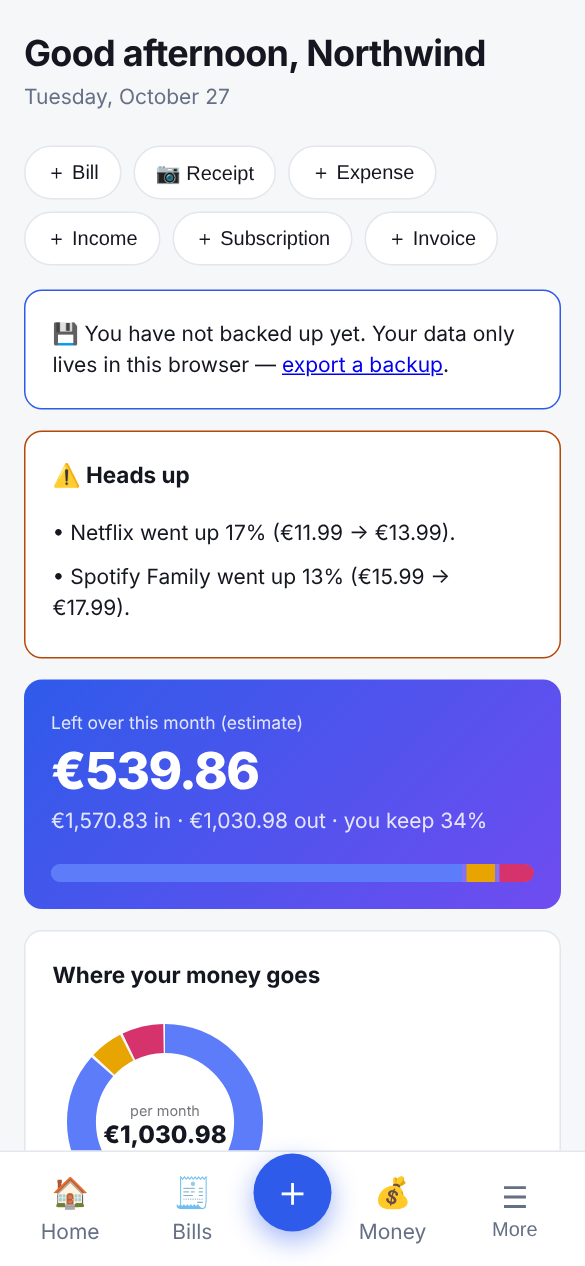
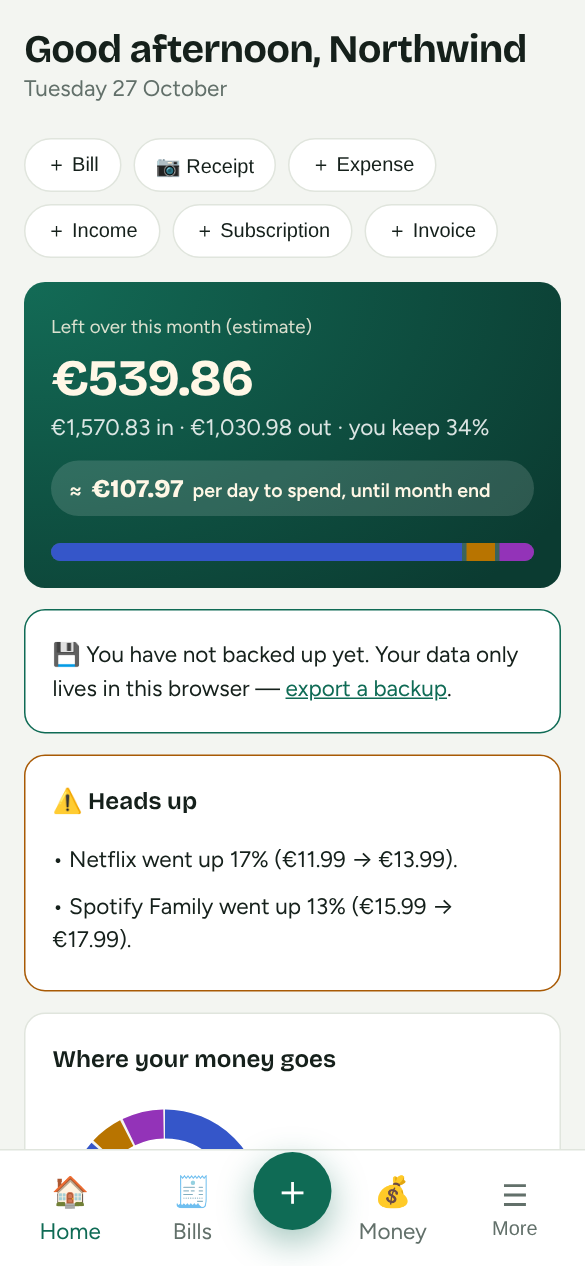
New visual identity (ledger green, Bricolage), safe-to-spend per day, global search, validated chart colours

diff --git a/js/app.js b/js/app.js
@@ -134,7 +134,7 @@
   function donut(parts, centerTop, centerBottom) {
     var tot = parts.reduce(function (a, p) { return a + p.v; }, 0) || 1, R = 52, C = 2 * Math.PI * R, off = 0;
     return '<svg viewBox="0 0 140 140" class="donut" role="img" aria-label="Spending split"><circle cx="70" cy="70" r="' + R + '" fill="none" stroke="var(--bg)" stroke-width="18"/>' + parts.map(function (p) {
-      var len = p.v / tot * C, el = '<circle cx="70" cy="70" r="' + R + '" fill="none" stroke="' + p.c + '" stroke-width="18" stroke-dasharray="' + Math.max(len - 1.5, 0) + ' ' + C + '" stroke-dashoffset="' + (-off) + '" transform="rotate(-90 70 70)"><title>' + esc(p.l) + ': ' + money(p.v) + '</title></circle>'; off += len; return el;
+      var len = p.v / tot * C, el = '<circle cx="70" cy="70" r="' + R + '" fill="none" style="stroke:' + p.c + '" stroke-width="18" stroke-dasharray="' + Math.max(len - 1.5, 0) + ' ' + C + '" stroke-dashoffset="' + (-off) + '" transform="rotate(-90 70 70)"><title>' + esc(p.l) + ': ' + money(p.v) + '</title></circle>'; off += len; return el;
     }).join('') + '<text x="70" y="66" text-anchor="middle" font-size="9" fill="currentColor" opacity=".6">' + esc(centerTop) + '</text><text x="70" y="83" text-anchor="middle" font-size="15" font-weight="800" fill="currentColor">' + esc(centerBottom) + '</text></svg>';
   }
   function monthFlows(n) {
@@ -155,6 +155,21 @@
       '<button class="pick" data-mode="both"><b>✨ Both</b><span>Everything in one place</span></button></div>' +
       '<p style="margin:14px 0 0"><button class="btn" id="wdemo">Look around with demo data first</button></p></div>';
   }
+  function daysLeft() { var n = new Date(); return Math.max(1, new Date(n.getFullYear(), n.getMonth() + 1, 0).getDate() - n.getDate() + 1); }
+  var SEARCH = { bills: ['#/bills', 'Utilities'], subs: ['#/subs', 'Subscriptions'], expenses: ['#/expenses', 'Expenses'], invoices: ['#/invoice/', 'Invoices'], clients: ['#/clients', 'Clients'], income: ['#/income', 'Income'], loans: ['#/loans', 'Loans'], items: ['#/reminders', 'Warranties'], deadlines: ['#/reminders', 'Deadlines'], accounts: ['#/wealth', 'Accounts'], goals: ['#/wealth', 'Goals'], groups: ['#/split', 'Split expenses'] };
+  function searchSheet() {
+    dlg.innerHTML = '<form method="dialog"><input class="sbox" id="sq" placeholder="Search bills, subscriptions, invoices, clients…" autocomplete="off"><div id="sres" style="margin-top:10px;max-height:50vh;overflow:auto"></div><div class="row" style="justify-content:flex-end;margin-top:12px"><button class="btn" value="x">Close</button></div></form>';
+    dlg.onclose = null; dlg.showModal(); var q = $('#sq'), res = $('#sres');
+    function title(x) { return x.name || x.source || x.desc || x.description || x.vendor || x.provider || x.number || x.title || x.note || x.type || '—'; }
+    q.oninput = function () {
+      var t = q.value.trim().toLowerCase(); if (t.length < 2) { res.innerHTML = '<p class="mut">Type at least two letters.</p>'; return; }
+      var out = []; Object.keys(SEARCH).forEach(function (c) { (db[c] || []).forEach(function (x) { var hay = JSON.stringify(x).toLowerCase(); if (hay.indexOf(t) > -1) out.push({ c: c, x: x }); }); });
+      res.innerHTML = out.length ? out.slice(0, 30).map(function (r) { var S = SEARCH[r.c], href = S[0] + (r.c === 'invoices' ? r.x.id : ''), amt = r.x.amount != null ? money(r.x.amount) : (r.x.balance != null ? money(r.x.balance) : ''); return '<a class="srow" href="' + href + '"><b>' + esc(String(title(r.x))) + '</b><span class="mut">' + S[1] + (r.x.date ? ' · ' + fdate(r.x.date) : '') + '</span><small>' + amt + '</small></a>'; }).join('') : '<p class="mut">Nothing found.</p>';
+      res.querySelectorAll('a').forEach(function (a) { a.onclick = function () { dlg.close('x'); }; });
+    };
+    q.focus();
+  }
+  document.addEventListener('keydown', function (e) { if ((e.ctrlKey || e.metaKey) && e.key.toLowerCase() === 'k') { e.preventDefault(); searchSheet(); } });
   function greeting() { var h = new Date().getHours(); return h < 6 ? 'Good night' : h < 12 ? 'Good morning' : h < 20 ? 'Good afternoon' : 'Good evening'; }
   function quickChips() {
     return '<div class="chips"><button class="chip" data-q="bill">＋ Bill</button><button class="chip" data-q="scan">📷 Receipt</button><button class="chip" data-q="expense">＋ Expense</button><button class="chip" data-q="income">＋ Income</button><button class="chip" data-q="sub">＋ Subscription</button><button class="chip" data-q="invoice">＋ Invoice</button></div>';
@@ -164,17 +179,18 @@
     var mode = db.settings.mode || 'both';
     var html = '<div class="top"><div><h1>' + greeting() + (db.settings.name ? ', ' + esc(db.settings.name.split(' ')[0]) : '') + '</h1><div class="mut">' + new Date().toLocaleDateString(LOCALE, { weekday: 'long', day: 'numeric', month: 'long' }) + '</div></div></div>';
     if (empty) { view.innerHTML = html + welcomeHtml(); wireWelcome(); return; }
-    html += quickChips() + backupBanner() + alertsHtml(alerts());
+    html += quickChips(); var warn = backupBanner() + alertsHtml(alerts());
     var o = overviewData();
     if (db.income.length || db.loans.length || db.subs.length || db.bills.length) {
-      var parts = [{ l: 'Loans', v: o.ln, c: '#5c7cfa' }, { l: 'Home bills', v: o.bl, c: '#e8a400' }, { l: 'Subscriptions', v: o.sb, c: '#d6336c' }, { l: 'Other expenses', v: o.ex, c: '#16a394' }].filter(function (p) { return p.v > 0.5; });
+      var parts = [{ l: 'Loans', v: o.ln, c: 'var(--c1)' }, { l: 'Home bills', v: o.bl, c: 'var(--c2)' }, { l: 'Subscriptions', v: o.sb, c: 'var(--c3)' }, { l: 'Other expenses', v: o.ex, c: 'var(--c4)' }].filter(function (p) { return p.v > 0.5; });
       var flows = monthFlows(6), fmax = Math.max.apply(null, flows.map(function (f) { return Math.max(f.inc, f.out); }).concat([1]));
       html += '<div class="hero card"><div><small>' + (db.income.length ? 'Left over this month (estimate)' : 'Monthly costs (estimate)') + '</small><div class="big ' + (o.left < 0 && db.income.length ? 'neg' : '') + '">' + money(db.income.length ? o.left : o.out) + '</div>' +
-        (db.income.length ? '<div class="mut">' + money(o.inc) + ' in · ' + money(o.out) + ' out · you keep ' + (o.inc ? Math.round(Math.max(0, o.left) / o.inc * 100) : 0) + '%' + '</div>' : '<div class="mut">Add your <a href="#/income">income</a> to see what is left each month.</div>') + '</div>' +
+        (db.income.length ? '<div class="mut">' + money(o.inc) + ' in · ' + money(o.out) + ' out · you keep ' + (o.inc ? Math.round(Math.max(0, o.left) / o.inc * 100) : 0) + '%' + '</div>' + (o.left > 0 ? '<div class="perday"><span>≈</span><b>' + money(o.left / daysLeft()) + '</b><span>per day to spend, until month end</span></div>' : '') : '<div class="mut">Add your <a href="#/income">income</a> to see what is left each month.</div>') + '</div>' +
         '<div class="stack" role="img" aria-label="Where this month goes">' + parts.map(function (p) { return '<i style="flex:' + p.v + ';background:' + p.c + '" title="' + esc(p.l) + ' ' + money(p.v) + '"></i>'; }).join('') + '</div></div>';
-      html += '<div class="grid g2" style="margin-top:14px"><div class="card"><h2>Where your money goes</h2><div class="dn">' + donut(parts, 'per month', money(o.out)) + '<div class="lg">' + parts.map(function (p) { return '<div><i style="background:' + p.c + '"></i><span>' + esc(p.l) + '</span><b>' + money(p.v) + '</b><em>' + Math.round(p.v / (o.out || 1) * 100) + '%</em></div>'; }).join('') + '</div></div></div>' +
-        '<div class="card"><h2>Last 6 months</h2><div class="bar" style="height:150px">' + flows.map(function (f) { return '<div><span class="bars"><i style="height:' + f.inc / fmax * 100 + '%" title="In ' + money(f.inc) + '"></i><i class="e" style="height:' + f.out / fmax * 100 + '%;background:#e8590c" title="Out ' + money(f.out) + '"></i></span>' + f.label + '</div>'; }).join('') + '</div><div class="legend"><span><i style="background:var(--acc)"></i>Money in</span><span><i style="background:#e8590c"></i>Money out</span></div></div></div>';
+      html += '<div style="margin-top:14px">' + warn + '</div>'; warn = ''; html += '<div class="grid g2" style="margin-top:14px"><div class="card"><h2>Where your money goes</h2><div class="dn">' + donut(parts, 'per month', money(o.out)) + '<div class="lg">' + parts.map(function (p) { return '<div><i style="background:' + p.c + '"></i><span>' + esc(p.l) + '</span><b>' + money(p.v) + '</b><em>' + Math.round(p.v / (o.out || 1) * 100) + '%</em></div>'; }).join('') + '</div></div></div>' +
+        '<div class="card"><h2>Last 6 months</h2><div class="bar" style="height:150px">' + flows.map(function (f) { return '<div><span class="bars"><i style="height:' + f.inc / fmax * 100 + '%" title="In ' + money(f.inc) + '"></i><i class="e" style="height:' + f.out / fmax * 100 + '%;background:var(--c2)" title="Out ' + money(f.out) + '"></i></span>' + f.label + '</div>'; }).join('') + '</div><div class="legend"><span><i style="background:var(--c4)"></i>Money in</span><span><i style="background:var(--c2)"></i>Money out</span></div></div></div>';
     }
+    html += warn;
     var nw = db.accounts.length ? netWorth() : null;
     var small = [];
     if (nw != null) small.push(kpi('Net worth', money(nw), nw >= 0 ? 'ok' : 'bad'));
@@ -199,7 +215,7 @@
     else if (k === 'loan') loanForm(); else if (k === 'goal') { go('#/wealth', '#newg'); } else if (k === 'account') { go('#/wealth', '#newa'); }
   }
   function moreSheet() {
-    var items = Array.prototype.map.call(document.querySelectorAll('#nav a'), function (a) { return '<a href="' + a.getAttribute('href') + '" class="mrow">' + a.innerHTML + '</a>'; }).join('');
+    var items = '<button type="button" class="mrow" data-act="search" style="text-align:left;background:none;font:inherit;grid-column:1/-1">🔍 Search</button>' + Array.prototype.map.call(document.querySelectorAll('#nav a'), function (a) { return '<a href="' + a.getAttribute('href') + '" class="mrow">' + a.innerHTML + '</a>'; }).join('');
     dlg.innerHTML = '<form method="dialog"><h2>All sections</h2><div class="mgrid">' + items + '</div>' + (window.__installEvt || isIOS() ? '<p style="margin-top:14px"><button type="button" class="btn p" id="inst" style="width:100%">📲 Install the app on this phone</button></p>' : '') + '<p style="margin-top:10px"><button type="button" class="btn" data-act="lang" style="width:100%">🌐 ' + (LOCALE ? 'English' : 'Português') + '</button></p><div class="row" style="justify-content:flex-end;margin-top:12px"><button class="btn" value="x">Close</button></div></form>';
     dlg.onclose = null; dlg.showModal(); dlg.querySelectorAll('a.mrow').forEach(function (a) { a.onclick = function () { dlg.close('x'); }; });
     var i = dlg.querySelector('#inst'); if (i) i.onclick = installApp;
@@ -217,7 +233,7 @@
   window.addEventListener('beforeinstallprompt', function (e) { e.preventDefault(); window.__installEvt = e; var b = $('#installbtn'); if (b) b.hidden = false; });
   document.addEventListener('click', function (e) {
     var t = e.target.closest('[data-act]'); if (!t) return; var a = t.dataset.act;
-    if (a === 'lang') { try { localStorage.setItem('ledgerly.lang', localStorage.getItem('ledgerly.lang') === 'pt' ? 'en' : 'pt'); } catch (e) { } location.reload(); } else if (a === 'quick') quickSheet(); else if (a === 'more') moreSheet(); else if (a === 'install') installApp();
+    if (a === 'search') searchSheet(); else if (a === 'lang') { try { localStorage.setItem('ledgerly.lang', localStorage.getItem('ledgerly.lang') === 'pt' ? 'en' : 'pt'); } catch (e) { } location.reload(); } else if (a === 'quick') quickSheet(); else if (a === 'more') moreSheet(); else if (a === 'install') installApp();
   });
 
   function invTable(list) {

diff --git a/style.css b/style.css
@@ -1,7 +1,9 @@
-:root{--bg:#f6f7f9;--card:#fff;--line:#e3e6ec;--text:#14171f;--mut:#667085;--acc:#2f5bea;--acc2:#e8eefe;--ok:#12805c;--okb:#e1f6ee;--warn:#b54708;--warnb:#fff1e0;--bad:#c0262d;--badb:#fde8e9;--r:12px}
-@media (prefers-color-scheme:dark){:root{--bg:#0e1015;--card:#171a22;--line:#262b36;--text:#eceef3;--mut:#8f98a8;--acc:#6f8cff;--acc2:#1c2442;--ok:#4cd6a2;--okb:#12312a;--warn:#ffb067;--warnb:#3a2612;--bad:#ff7a80;--badb:#3b1a1d}}
+@font-face{font-family:"Bricolage";src:url(fonts/bricolage-grotesque-latin-wght-normal.woff2) format("woff2");font-weight:200 800;font-display:swap}
+@font-face{font-family:"Figtree";src:url(fonts/figtree-latin-wght-normal.woff2) format("woff2");font-weight:300 900;font-display:swap}
+:root{--bg:#f3f5f1;--card:#fff;--line:#e0e5dd;--text:#15201b;--mut:#62706a;--acc:#0f6b55;--acc2:#e1f0e9;--ok:#0f7a52;--okb:#e1f6ee;--warn:#a85a05;--warnb:#fff1e0;--bad:#c0262d;--badb:#fde8e9;--r:14px;--hero1:#0b3b31;--hero2:#136b56;--heroink:#fff7e6;--c1:#3556c9;--c2:#b87400;--c3:#9333b8;--c4:#0f8a63;--fd:"Bricolage",system-ui,sans-serif}
+@media (prefers-color-scheme:dark){:root{--bg:#0e1411;--card:#16201b;--line:#25322b;--text:#e8efe9;--mut:#8da197;--acc:#4fd1a5;--acc2:#18332a;--ok:#4cd6a2;--okb:#12312a;--warn:#ffb067;--warnb:#3a2612;--bad:#ff7a80;--badb:#3b1a1d;--hero1:#0a2a23;--hero2:#14594a;--c1:#6f8cf0;--c2:#d9a443;--c3:#b86ad6;--c4:#2fa87c}}
 *{box-sizing:border-box}[hidden]{display:none!important}
-body{margin:0;background:var(--bg);color:var(--text);font:14px/1.5 system-ui,-apple-system,Segoe UI,Roboto,sans-serif}
+body{margin:0;background:var(--bg);color:var(--text);font:15px/1.5 Figtree,system-ui,-apple-system,Segoe UI,Roboto,sans-serif}
 .app{display:grid;grid-template-columns:220px 1fr;min-height:100vh}
 #nav{padding:22px 14px;border-right:1px solid var(--line);background:var(--card);position:sticky;top:0;height:100vh;display:flex;flex-direction:column;gap:2px}
 .logo{font-weight:800;font-size:20px;letter-spacing:-.02em;margin:0 10px 18px}.logo span{color:var(--acc)}
@@ -9,7 +11,7 @@ body{margin:0;background:var(--bg);color:var(--text);font:14px/1.5 system-ui,-ap
 #nav a:hover{background:var(--bg)}#nav a.on{background:var(--acc2);color:var(--acc)}
 #nav .note{margin-top:auto;color:var(--mut);font-size:12px;padding:0 10px}
 main{padding:28px clamp(16px,3vw,40px) 60px;max-width:1100px;width:100%}
-h1{font-size:24px;margin:0;letter-spacing:-.02em}h2{font-size:15px;margin:0 0 12px}
+h1{font:700 26px/1.15 var(--fd);margin:0;letter-spacing:-.02em}h2{font-size:15px;margin:0 0 12px}
 .top{display:flex;justify-content:space-between;align-items:center;gap:12px;margin-bottom:22px;flex-wrap:wrap}
 .card{background:var(--card);border:1px solid var(--line);border-radius:var(--r);padding:18px}
 .grid{display:grid;gap:14px}.g4{grid-template-columns:repeat(auto-fit,minmax(190px,1fr))}.g2{grid-template-columns:repeat(auto-fit,minmax(300px,1fr))}
@@ -84,3 +86,22 @@ body[data-mode=home] .g-work,body[data-mode=work] .g-home{display:none!important
 #nav a{display:flex;align-items:center;gap:8px;border-radius:10px;padding:9px 12px;transition:background .15s}#nav a:hover{background:var(--acc2)}#nav a.on{background:var(--acc2);color:var(--acc);font-weight:700}
 #langbtn{display:block;width:calc(100% - 20px)}
 @media (max-width:820px){.card.empty{padding:28px 16px}}
+
+/* ---- identity: ledger green, Bricolage headings ---- */
+h2{font-family:var(--fd);font-weight:650;font-size:16px}.logo{font-family:var(--fd)}
+.hero{background:radial-gradient(120% 140% at 0% 0%,var(--hero2),var(--hero1));color:var(--heroink)}
+.hero .big{font-family:var(--fd);font-weight:700;color:var(--heroink)}
+.hero .perday{display:inline-flex;gap:6px;align-items:baseline;margin-top:10px;padding:6px 12px;border-radius:99px;background:rgba(255,255,255,.14);font-weight:600}
+.hero .perday b{font-family:var(--fd);font-size:17px}
+.kpi b{font-family:var(--fd)}
+.btn.p{background:var(--acc);color:#fff}.btn.p:hover{filter:brightness(1.08)}
+body[data-mode] #fab,#tabbar .plus{background:var(--acc);box-shadow:0 8px 24px rgba(15,107,85,.4)}
+@media (prefers-color-scheme:dark){.btn.p,#fab,#tabbar .plus{color:#06231b}}
+#tabbar a.on{color:var(--acc)}
+#srch{display:flex;align-items:center;gap:8px;margin:0 10px 12px;padding:9px 12px;border:1px solid var(--line);border-radius:10px;background:var(--bg);color:var(--mut);cursor:pointer;font:inherit;width:calc(100% - 20px)}#srch kbd{margin-left:auto;font:600 11px Figtree;border:1px solid var(--line);border-radius:5px;padding:1px 6px}
+.srow{display:flex;gap:10px;align-items:center;padding:10px 12px;border-radius:10px;color:var(--text);text-decoration:none}.srow:hover,.srow.sel{background:var(--acc2)}.srow small{color:var(--mut);margin-left:auto}
+.sbox{width:100%;font-size:17px;padding:12px 14px;border-radius:12px}
+.lg i,.legend i{border-radius:3px}
+
+a{color:var(--acc)}.hero a,.btn,.chip,.srow,.mrow{color:inherit}#nav a,#tabbar a{color:var(--mut)}#nav a.on,#tabbar a.on{color:var(--acc)}.btn.p{color:#fff}
+@media(max-width:820px){.hero .perday{display:flex;font-size:13px}}

diff --git a/js/i18n.js b/js/i18n.js
@@ -176,7 +176,7 @@
   };
   // fragments inside longer dynamic sentences, longest first
   var F = [
-    ['Signed in as','Sessão iniciada como'], ['Last sync','Última sincronização'], [' in · ',' entradas · '], [' out · you keep',' saídas · ficas com'], ['Good night,','Boa noite,'], ['Good morning,','Bom dia,'], ['Good afternoon,','Boa tarde,'], ['Good evening,','Boa noite,'],
+    ['Signed in as','Sessão iniciada como'], ['Last sync','Última sincronização'], [' in · ',' entradas · '], ['per day to spend, until month end','por dia para gastar, até ao fim do mês'], [' out · you keep',' saídas · ficas com'], ['Good night,','Boa noite,'], ['Good morning,','Bom dia,'], ['Good afternoon,','Boa tarde,'], ['Good evening,','Boa noite,'],
     ['Monthly', 'Mensal'], ['Yearly', 'Anual'], ['Weekly', 'Semanal'], ['/mo', '/mês'], ['shared ÷', 'partilhada ÷'],
     ['Paid in ', 'Pago em '], ['Expenses in ', 'Despesas em '], ['Income vs expenses', 'Receitas vs despesas'], ['Invoice INV', 'Fatura INV'], ['Last bill per person', 'Última fatura por pessoa'],
     ['You have not backed up yet.', 'Ainda não fizeste nenhuma cópia de segurança.'], ['Your last backup was', 'A tua última cópia foi há'], ['days ago.', 'dias.'],
@@ -194,6 +194,7 @@
 
   D['Add your water, electricity or gas bill, or import a photo or PDF, and see how it changes and'] = 'Adiciona uma conta de água, luz ou gás, ou importa uma foto ou PDF, e vê como muda e'; D['No subscriptions yet. Add the ones you know, then use the checklist below for the ones you may have forgotten.'] = 'Adiciona as que conheces e usa a lista abaixo para as que te podem estar a escapar.'; D['Add your salary (net, what lands in your account) and any other income. The dashboard then shows what is left after bills, subscriptions and loans.'] = 'Adiciona o teu salário (líquido, o que cai na conta) e outros rendimentos. O início mostra depois o que sobra depois de contas, subscrições e créditos.'; 
   D['Add the ones you know, then use the checklist below for the ones you may have forgotten.'] = 'Adiciona as que conheces e usa a lista abaixo para as que te podem estar a escapar.'; D['Add mortgages, car loans, credit cards or personal credit to see how much is left, when it ends and how much interest you will pay.'] = 'Adiciona crédito habitação, automóvel, cartões ou crédito pessoal para ver quanto falta, quando termina e quantos juros vais pagar.'; D['Trips, flatmates, dinners — add a group, log who paid what, and see who owes whom.'] = 'Viagens, colegas de casa, jantares — cria um grupo, regista quem pagou o quê e vê quem deve a quem.'; D['why'] = 'porquê'; 
+  D['Search'] = 'Pesquisar'; D['Type at least two letters.'] = 'Escreve pelo menos duas letras.'; D['Nothing found.'] = 'Nada encontrado.'; D['Search bills, subscriptions, invoices, clients…'] = 'Pesquisar contas, subscrições, faturas, clientes…'; D['🔍 Search'] = '🔍 Pesquisar'; D['per day to spend, until month end'] = 'por dia para gastar, até ao fim do mês'; D['Warranties'] = 'Garantias'; D['Deadlines'] = 'Prazos'; D['Accounts'] = 'Contas bancárias'; D['Goals'] = 'Objetivos'; 
   D['Home'] = 'Início'; D['No bills yet']='Ainda sem contas'; D['No subscriptions yet']='Ainda sem subscrições'; D['No income yet']='Ainda sem rendimentos'; D['No loans yet']='Ainda sem créditos'; D['Nothing here yet']='Ainda não há nada aqui'; D['No shared groups yet']='Ainda sem grupos partilhados'; D['Nothing to remind you about']='Nada para lembrar'; D['No expenses yet']='Ainda sem despesas'; D['No invoices yet']='Ainda sem faturas'; D['No clients yet']='Ainda sem clientes'; D['✨ Try with demo data']='✨ Experimentar com dados de demonstração'; D['Try with demo data']='Experimentar com dados de demonstração';
   function tr(v) {
     var t = v.trim(); if (!t) return v;

diff --git a/sw.js b/sw.js
@@ -1,6 +1,6 @@
 /* Ledgerly service worker: app shell works offline. Bump CACHE when files change. */
-const CACHE = 'ledgerly-v10';
-const FILES = ['./', './index.html', './style.css', './js/app.js', './js/i18n.js', './manifest.json', './icon-192.png', './icon-512.png'];
+const CACHE = 'ledgerly-v12';
+const FILES = ['./', './index.html', './style.css', './js/app.js', './js/i18n.js', './manifest.json','./fonts/bricolage-grotesque-latin-wght-normal.woff2','./fonts/figtree-latin-wght-normal.woff2', './icon-192.png', './icon-512.png'];
 self.addEventListener('install', e => { e.waitUntil(caches.open(CACHE).then(c => c.addAll(FILES)).then(() => self.skipWaiting())); });
 self.addEventListener('activate', e => { e.waitUntil(caches.keys().then(ks => Promise.all(ks.filter(k => k !== CACHE).map(k => caches.delete(k)))).then(() => self.clients.claim())); });
 self.addEventListener('fetch', e => {

diff --git a/index.html b/index.html
@@ -7,7 +7,7 @@
 <meta name="description" content="Local-first invoicing and expense tracking. No account, no server: your data stays in your browser.">
 <meta name="color-scheme" content="light dark">
 <link rel="manifest" href="manifest.json">
-<meta name="theme-color" content="#2f5bea">
+<meta name="theme-color" content="#0f6b55">
 <link rel="icon" href="icon-192.png">
 <link rel="stylesheet" href="style.css">
 </head>
@@ -15,6 +15,7 @@
 <div class="app">
   <nav id="nav">
     <div class="logo"><span>L</span>edgerly</div>
+    <button id="srch" data-act="search">🔍 <span>Search</span><kbd>Ctrl K</kbd></button>
     <a href="#/" data-r="dashboard">🏠 Home</a>
     <small class="sec g-home">Home & family</small>
     <a class="g-home" href="#/bills" data-r="bills">🧾 Utilities</a>
